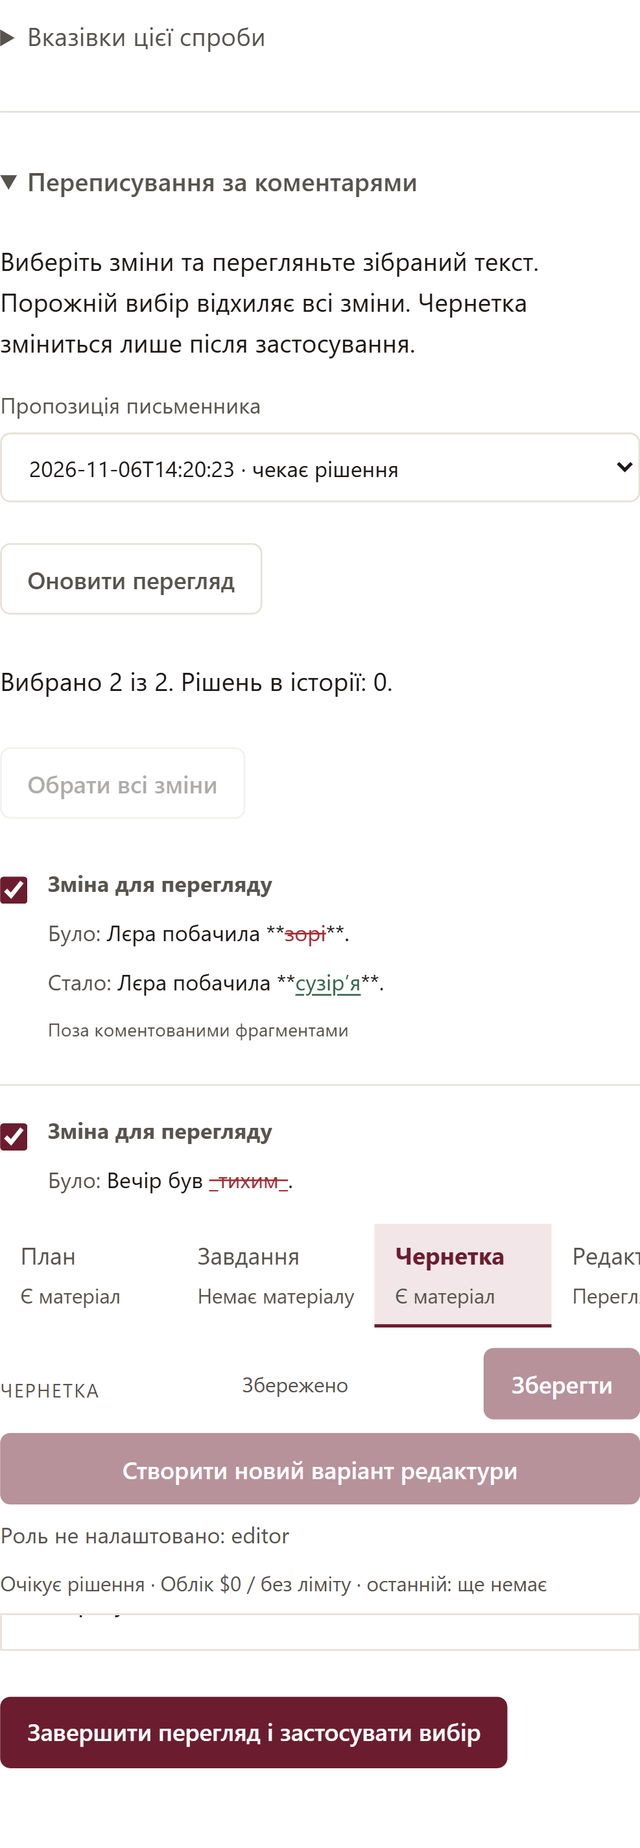
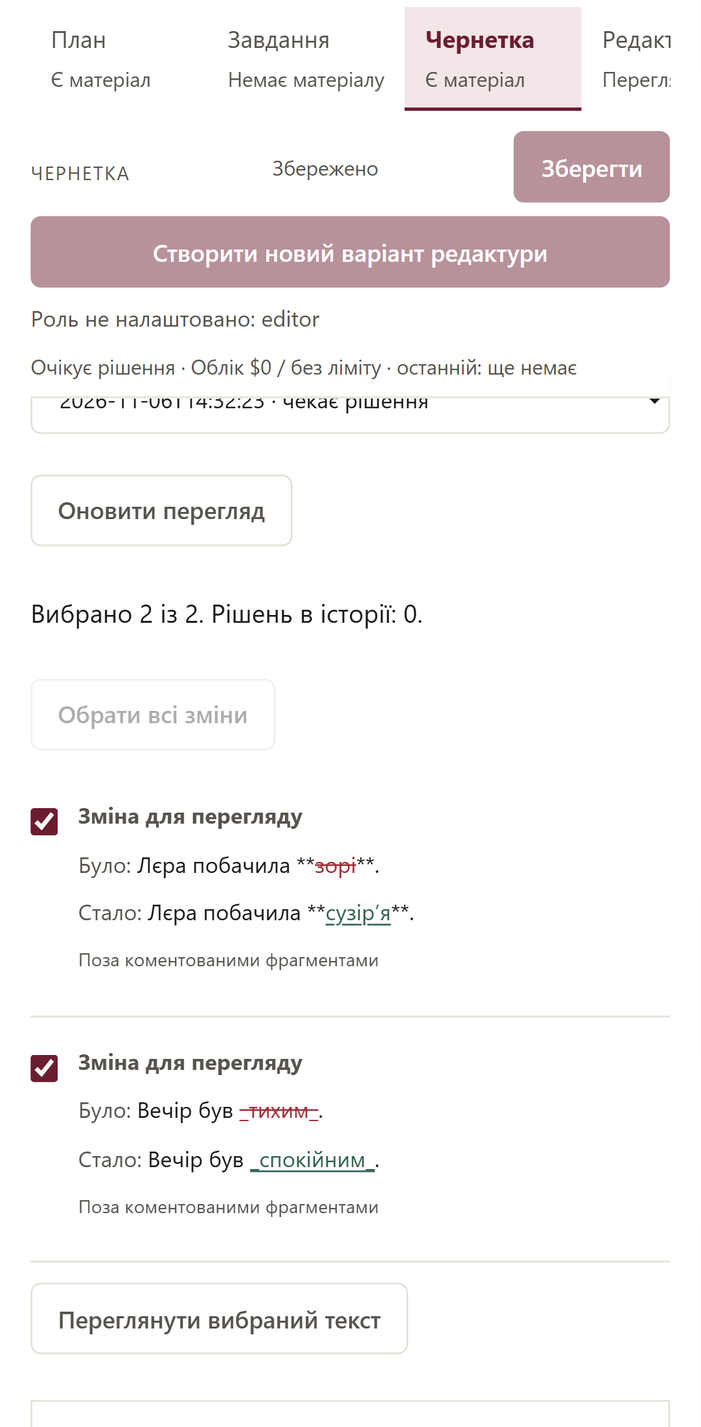
feat: collapse long scene and review result lists
Preserve scene/material/dirty text and disclosure across refresh/locale. Docs: SPEC/traceability, UA/EN guides, six neutral screenshots;104 browser and185 web tests passed.

diff --git a/src/storygen/web/templates/story.html b/src/storygen/web/templates/story.html
@@ -1,6 +1,6 @@
 {% extends "base.html" %}{% block title %}{{story.title}} — Obscura{% endblock %}{% block content %}<link rel="stylesheet" href="/static/rich-editor.css">
 <div id="workspace" data-story-id="{{story.id}}"><div class="storybar"><div><a href="/" class="muted"><span data-i18n="m_26b01756a3dd">{{ t('m_26b01756a3dd') }}</span></a><div class="story-title-row"><h1 id="story-title">{{story.title}}</h1><button id="rename-story" type="button" class="secondary story-title-edit" aria-label="{{ t('m_42fc172b39c9') }}" title="{{ t('m_42fc172b39c9') }}" data-i18n-attrs='{"aria-label": "m_42fc172b39c9", "title": "m_42fc172b39c9"}'><svg viewBox="0 0 24 24" width="20" height="20" fill="none" stroke="currentColor" stroke-width="1.75" stroke-linecap="round" stroke-linejoin="round" aria-hidden="true"><path d="m16 3 5 5-13 13H3v-5Z"/><path d="m14 5 5 5"/></svg></button><form id="story-title-form" hidden><label class="sr-only" for="story-title-input"><span data-i18n="m_249c337f3e51">{{ t('m_249c337f3e51') }}</span></label><input id="story-title-input" name="title" maxlength="300" required autocomplete="off" aria-describedby="story-title-error"><button id="story-title-submit" type="submit"><span data-i18n="m_e40fc0b582e3">{{ t('m_e40fc0b582e3') }}</span></button><small class="muted"><span data-i18n="m_308df7133e1e">{{ t('m_308df7133e1e') }}</span></small></form></div><p id="story-title-error" role="alert"></p></div><div class="actions"><a id="workspace-characters" class="button secondary" href="/stories/{{story.id}}/characters"><span data-i18n="characters.nav">{{ t('characters.nav') }}</span></a><a class="button secondary" href="/stories/{{story.id}}/settings"><span data-i18n="m_2aac46060bb4">{{ t('m_2aac46060bb4') }}</span></a><button id="add-scene" class="secondary"><span data-i18n="m_583cafe0b81c">{{ t('m_583cafe0b81c') }}</span></button></div></div>
-<details id="impact-panel" class="book-impact" hidden><summary><span data-i18n="impact.title">{{ t('impact.title') }}</span><span id="impact-count" class="muted"></span><svg class="impact-chevron" viewBox="0 0 24 24" width="20" height="20" fill="none" stroke="currentColor" stroke-width="1.75" aria-hidden="true"><path d="m6 9 6 6 6-6"/></svg></summary><p data-i18n="impact.help">{{ t('impact.help') }}</p><button id="impact-preview" class="secondary" type="button" data-i18n="impact.preview">{{ t('impact.preview') }}</button><a id="impact-settings" class="button secondary" hidden data-i18n="impact.settings">{{ t("impact.settings") }}</a><p id="impact-progress" role="status"></p><div id="impact-preview-panel" hidden><p id="impact-preview-info"></p><ul id="impact-targets"></ul><ul id="impact-warnings" class="muted"></ul><p id="impact-cost"></p><label id="impact-limit-label" hidden><span data-i18n="impact.limit">{{ t('impact.limit') }}</span><input id="impact-limit" type="number" min="0" step="0.000001" inputmode="decimal"></label><div class="actions"><button id="impact-start" type="button" data-i18n="impact.start">{{ t('impact.start') }}</button><button id="impact-cancel-preview" type="button" class="secondary" data-i18n="impact.cancel_preview">{{ t('impact.cancel_preview') }}</button></div></div><section id="review-session" aria-live="polite" hidden></section><section id="impact-reports" aria-live="polite"></section><p class="muted" data-i18n="impact.not_quality">{{ t('impact.not_quality') }}</p></details><div class="workbench"><aside class="scene-panel"><div class="panel-heading"><span data-i18n="m_6a99495702ec">{{ t('m_6a99495702ec') }}</span> <span id="scene-count"></span></div><select id="scene-select-mobile" aria-label="{{ t('m_f0f1417db6de') }}" data-i18n-attrs='{"aria-label": "m_f0f1417db6de"}'></select><nav id="scene-list"></nav><details class="importer" open><summary><span data-i18n="m_4aa3221c15d4">{{ t('m_4aa3221c15d4') }}</span></summary><div class="import-template-links"><span class="muted"><span data-i18n="m_85029e1c12d1">{{ t('m_85029e1c12d1') }}</span></span><a href="/static/templates/story-plan.md" download="obscura-plan.md"><span data-i18n="m_23766d24efd9">{{ t('m_23766d24efd9') }}</span></a><a href="/static/templates/characters.md" download="obscura-characters.md"><span data-i18n="m_a0828dcd0440">{{ t('m_a0828dcd0440') }}</span></a></div><form id="import-sources"><label><span data-i18n="m_3146141c9367">{{ t('m_3146141c9367') }}</span><input type="file" name="plan" accept=".md,.txt"></label><label><span data-i18n="m_fda6febf7bc7">{{ t('m_fda6febf7bc7') }}</span><input type="file" name="characters" accept=".md,.txt"></label><button><span data-i18n="m_68f804fb7941">{{ t('m_68f804fb7941') }}</span></button></form><p class="muted" data-i18n="imports.unnumbered">{{ t('imports.unnumbered') }}</p><section id="import-results" class="import-results" role="status" aria-live="polite" hidden></section></details></aside>
+<details id="impact-panel" class="book-impact" hidden><summary><span data-i18n="impact.title">{{ t('impact.title') }}</span><span id="impact-count" class="muted"></span><svg class="impact-chevron" viewBox="0 0 24 24" width="20" height="20" fill="none" stroke="currentColor" stroke-width="1.75" aria-hidden="true"><path d="m6 9 6 6 6-6"/></svg></summary><p data-i18n="impact.help">{{ t('impact.help') }}</p><button id="impact-preview" class="secondary" type="button" data-i18n="impact.preview">{{ t('impact.preview') }}</button><a id="impact-settings" class="button secondary" hidden data-i18n="impact.settings">{{ t("impact.settings") }}</a><p id="impact-progress" role="status"></p><div id="impact-preview-panel" hidden><p id="impact-preview-info"></p><ul id="impact-targets"></ul><ul id="impact-warnings" class="muted"></ul><p id="impact-cost"></p><label id="impact-limit-label" hidden><span data-i18n="impact.limit">{{ t('impact.limit') }}</span><input id="impact-limit" type="number" min="0" step="0.000001" inputmode="decimal"></label><div class="actions"><button id="impact-start" type="button" data-i18n="impact.start">{{ t('impact.start') }}</button><button id="impact-cancel-preview" type="button" class="secondary" data-i18n="impact.cancel_preview">{{ t('impact.cancel_preview') }}</button></div></div><section id="review-session" aria-live="polite" hidden></section><section id="impact-reports" aria-live="polite"></section><p class="muted" data-i18n="impact.not_quality">{{ t('impact.not_quality') }}</p></details><div class="workbench"><aside class="scene-panel"><details id="scene-list-section" open><summary><span data-i18n="m_6a99495702ec">{{ t('m_6a99495702ec') }}</span> <span id="scene-count"></span></summary><select id="scene-select-mobile" aria-label="{{ t('m_f0f1417db6de') }}" data-i18n-attrs='{"aria-label": "m_f0f1417db6de"}'></select><nav id="scene-list"></nav></details><details class="importer" open><summary><span data-i18n="m_4aa3221c15d4">{{ t('m_4aa3221c15d4') }}</span></summary><div class="import-template-links"><span class="muted"><span data-i18n="m_85029e1c12d1">{{ t('m_85029e1c12d1') }}</span></span><a href="/static/templates/story-plan.md" download="obscura-plan.md"><span data-i18n="m_23766d24efd9">{{ t('m_23766d24efd9') }}</span></a><a href="/static/templates/characters.md" download="obscura-characters.md"><span data-i18n="m_a0828dcd0440">{{ t('m_a0828dcd0440') }}</span></a></div><form id="import-sources"><label><span data-i18n="m_3146141c9367">{{ t('m_3146141c9367') }}</span><input type="file" name="plan" accept=".md,.txt"></label><label><span data-i18n="m_fda6febf7bc7">{{ t('m_fda6febf7bc7') }}</span><input type="file" name="characters" accept=".md,.txt"></label><button><span data-i18n="m_68f804fb7941">{{ t('m_68f804fb7941') }}</span></button></form><p class="muted" data-i18n="imports.unnumbered">{{ t('imports.unnumbered') }}</p><section id="import-results" class="import-results" role="status" aria-live="polite" hidden></section></details></aside>
 <main class="editor-panel"><header class="scene-heading"><h2 id="scene-title"><span data-i18n="m_e9afe8d51b91">{{ t('m_e9afe8d51b91') }}</span></h2><p id="workspace-scene-meta"><span data-i18n="m_6be5cd9f46ec">{{ t('m_6be5cd9f46ec') }}</span></p></header>
 <div class="workspace-sticky"><div id="mode-tabs" class="tabs" role="tablist" aria-label="{{ t('m_566dc8de3f68') }}" data-i18n-attrs='{"aria-label": "m_566dc8de3f68"}'></div>
 <div class="editor-toolbar"><span class="material-label" id="current-kind"><span data-i18n="m_9ecb77f7d846">{{ t('m_9ecb77f7d846') }}</span></span><span id="save-state" class="muted" role="status"></span><button id="save-text" disabled><span data-i18n="m_bf610d493cb4">{{ t('m_bf610d493cb4') }}</span></button><button id="workspace-primary" disabled aria-describedby="workspace-hint"><span data-i18n="m_f0f1417db6de">{{ t('m_f0f1417db6de') }}</span></button></div><p id="workspace-hint" role="status"></p><p id="workspace-compact-status" class="workspace-compact-status" role="status"></p></div>

diff --git a/src/storygen/web/static/impact.js b/src/storygen/web/static/impact.js
@@ -24,11 +24,12 @@ function controls(){contractSelect.disabled=busy||state.saving||active();preview
 function renderReports(){
   if(!cached)return;
   uiText(document.querySelector('#impact-count'),'textContent',()=>t('impact.pending_count',{p0:cached.pending.length}));
+  const historyOpen=reportBox.querySelector('#impact-report-list')?.open??true;
   reportBox.replaceChildren();
   for(const target of cached.pending.filter(target=>target.blockers.length))reportBox.append(node('p',target.scene_title+' · '+t('impact.'+target.material)+' — '+target.blockers.map(diagnostic).join('; '),'muted'));
   const latest=new Map();for(const report of cached.reports)latest.set(report.scene_id+':'+report.material,report);
   if(!latest.size)return;
-  reportBox.append(node('h3',t('impact.history')));
+  const history=node('details');history.id='impact-report-list';history.open=historyOpen;history.append(node('summary',t('impact.history')));reportBox.append(history);
   for(const report of [...latest.values()].reverse()){
     const article=node('article',null,'impact-report');article.dataset.current=String(report.current);article.dataset.verdict=report.verdict;
     article.append(node('h4',report.scene_title+' · '+t('impact.'+report.material)),node('p',report.current?t('impact.'+report.verdict):t('impact.outdated'),'impact-verdict'),node('p',report.explanation));
@@ -46,7 +47,7 @@ function renderReports(){
     const actions=node('div',null,'actions'),open=node('button',t('impact.open'),'secondary');open.type='button';
     open.onclick=async()=>{try{const scene=state.view.scenes.find(s=>s.id===report.scene_id);if(!scene)return;await selectScene(scene);if(state.scene?.id===scene.id&&!state.dirty)await invokeWorkspaceCommand('show',report.material);}catch(error){notice(error.message,'error')}};actions.append(open);
     if(report.current){const reject=node('button',t('impact.reject'),'secondary');reject.type='button';reject.dataset.rejectImpact=report.id;reject.onclick=async()=>{try{await api(`/api/stories/${state.storyId}/impact/${report.id}/reject`,json('POST',{}));await refresh();await load();}catch(error){notice(error.message,'error')}};actions.append(reject);}
-    article.append(actions);reportBox.append(article);
+    article.append(actions);history.append(article);
   }
 }
 async function load(){

diff --git a/SPEC.MD b/SPEC.MD
@@ -2390,6 +2390,8 @@ API GET /api/scenes/{scene_id}/statistics?stage=brief|draft|edit|memory пове
 
 ### Requirement: R20-WORKSPACE — Видимі етапи та безпечна основна дія
 
+Список сцен SHALL бути одним native details із видимою кількістю, початково open. Імпорт матеріалів розташовано поза цим disclosure. Згортання не змінює scene/material, dirty текст чи API стан; refresh і UA/EN зберігають open, reload починається open.
+
 Сторінка твору SHALL показувати шість етапів: План, Завдання, Чернетка, Редактура, Проза, Пам’ять. Редактура — перегляд чинних пропозицій, не новий VersionKind. Відкриття вкладки не викликає моделей і не є авторським прийманням. Вкладки та Save/основна дія знаходяться в закріпленій області над матеріалом. Історія, повторні/службові й автоматичні операції згруповані в розгортаних блоках; керування запуском показане за його станом. План не приховується після підготовки. Картка публікації є явним інтерактивним переходом.
 
 Основна дія SHALL зберігати dirty матеріал до початку наступного етапу, перевіряти незмінність scene/mode/buffer epoch та readiness перед enqueue. Save і enqueue — дві окремі операції; збій другої не відкидає успішне Save. Помилка Save, нове введення, перемикання сцени, історичний буфер чи active run SHALL блокувати запуск. Повтор — явний «Створити новий варіант…» зі збереженням історії, без послаблення CAS/актуальності. Для memory збереження forwarding та перехід не запускають наступну сцену; після останньої перехід веде до картки. Без створеної актуальної пам’яті primary завершення недоступний; ручна навігація сцен збережена.
@@ -2407,6 +2409,12 @@ API GET /api/scenes/{scene_id}/statistics?stage=brief|draft|edit|memory пове
 - AND відсутня/порожня пропозиція не дозволяє прихованого прийняття, а відсутня пам’ять не позначає сцену завершеною.
 
 Техніка: static/workspace-state.js задає маршрут/primary transition, workspace-route.js координує UI; workspace-commands.js — Promise-команди save/show/run/accept-review. Чинні editor.js/versions.js/runs.js та copyedit/memory компоненти реалізують ці команди. Стан версій/актуальності залишається серверним. text-editor.js інкапсулює serialized read/write/focus/input/readOnly; новий маршрут не залежить від textarea.value. Markdown-рядки зберігаються без нормалізації. R-22 rich editing і конвертація Markdown у книги реалізовані контрактами R22-EDITOR/R22-MARKUP. Історичні ручні сценарії та автоматичні режими збережено.
+
+
+#### Scenario: R20-WORKSPACE-SCENES — Згортання довгого списку сцен
+GIVEN65 сцен і поточний матеріал із незбереженим вводом
+WHEN автор згортає/розгортає native details «Сцени», перемикає UA/EN або отримує refresh
+THEN список і mobile picker SHALL ховатися/показуватися разом, імпорт поза списком лишається доступним; кількість видима в summary, current scene/material/dirty текст і стан disclosure збережені без API mutations.
 
 ### Requirement: R20-EDITOR-SOURCE — Зафіксоване джерело окремої редактури
 
@@ -2879,6 +2887,8 @@ RunRequest mode=impact SHALL містити погоджений impact_plan_fin
 
 ### Requirement: IMPACT-UI — Редактура книги, статуси й контроль автора
 
+Історія report articles SHALL бути одним початково відкритим native details «Останні результати»; open зберігається при locale/refresh, лише history згортається без втрати доказів або поточних авторських рішень.
+
 Панель «Редагування книги» SHALL бути окремим disclosure під назвою твору, без нового кроку pipeline сцени. Вона активується лише за capability review_protocols=[1,2,3] з GET /api/stories/{id}/impact, щоб hot static update не показував нові кнопки старому серверу. GET також повертає pending матеріали, історичні публічні звіти/дельту/докази й scene_status. Поточні preview/start використовують /review protocol3 (REVIEW-WORKSPACE), зі scope поточної сцени та невідомим майбутнім обсягом/вартістю. Legacy POST .../impact/preview та .../impact з request_id/fingerprint/optional budget_limit_usd лишаються сумісними й не переписуються. POST .../impact/{record_id}/reject журналює відхилення лише історичного звіту цього твору.
 
 Перед запуском dirty buffer пропонується зберегти; відмова/помилка Save не надсилають дані. Preview й Run запобігають дублюванню; review не підміняє живі незбережені буфери. UA/EN перемикання не змінює source text, введений бюджет або стан запуску. Report показує людські назви/дослівні уривки й конкретні пояснення, не службові row IDs. Авторські назви джерельних сцен зберігаються дослівно навіть коли збігаються з локалізованими підписами застосунку. Окрема дельта доступна через disclosure. «Відхилити висновок» прибирає його дію без author acceptance; «Відкрити матеріал» використовує чинний захист dirty scene navigation. Налаштування ведуть до planner.
@@ -2897,6 +2907,12 @@ Dirty/«Потрібні зміни» для прози означає лише 
 GIVEN сервер ще обчислює безкоштовний попередній перегляд
 WHEN автор натиснув «Перевірити вплив»
 THEN стан підготовки й секунди очікування SHALL бути видимі відразу; застарілі targets/cost/start не показуються, запуск недоступний до готової відповіді. Автор може скасувати очікування через AbortController; після120с браузер припиняє очікування з окремою діагностикою. Cancel/timeout/HTTP error SHALL повертати керування й дозволяти повторний preview без модельного run/dispatch. Скасування браузерного fetch не обіцяє зупинку вже розпочатого серверного read-only обчислення. UA/EN локалізація й авторський буфер збережені. Усунуто дефект: loading-текст раніше оновлювався всередині прихованої панелі, тому очікування виглядало як непрацююча кнопка.
+
+
+#### Scenario: IMPACT-UI-HISTORY — Згортання результатів сцен
+GIVEN історія результатів перевірки кількох матеріалів сцен
+WHEN автор згортає список «Останні результати» й перемикає UA/EN або оновлює story
+THEN усі articles SHALL лишатися під одним native summary зі збереженим open; blockers і поточний author checkpoint поза історією не приховуються; без history порожній disclosure не з’являється.
 
 ### Requirement: IMPACT-MEMORY — Окрема перевірка змісту без зміни доказів
 

diff --git a/docs/superpowers/plans/2026-10-20-remediation-backlog.md b/docs/superpowers/plans/2026-10-20-remediation-backlog.md
@@ -522,7 +522,7 @@ R-28k фінальний набір1293PASS/1SKIP,24browserPASS. Дрібні н
 Статус: записано до плану, реалізацію цього пакета ще не розпочато. Перед зміною контрактів оформити специфікацію; цей перелік не описує чинну поведінку.
 
 1. **R-23 follow-up — «Обрати всі зміни».** У переписуванні за коментарями додати пакетний вибір усіх запропонованих змін перед авторським підтвердженням. Сам вибір не застосовує правки й не запускає генерацію; окремий вибір змін лишається доступним. Перевірити UA/EN та desktop/mobile.
-2. **R-20/R-28 follow-up — згорнути/розгорнути всі сцени.** Додати дії «Згорнути всі сцени» та «Розгорнути всі сцени», зберігши індивідуальне керування сценами й поточний авторський ввід. Під час специфікації визначити відповідну панель та поведінку змішаного стану.
+2. **R-20/R-28 follow-up — згорнути/розгорнути всі сцени.** Додати дії «Згорнути всі сцени» та «Розгорнути всі сцени», зберігши індивідуальне керування сценами й поточний авторський ввід. Уточнено власником06.11: обидва екрани; довгий список60+ сцен має згортатися як сусідні details, щоб імпорт не відсувався вниз. Реалізується як цілий згортаний список, не приховування лише status рядків.
 3. **R-11/R-08 follow-up — тариф при виборі моделі.** Показувати тариф поруч із вибором: вхідні й вихідні токени, валюту та одиницю тарифікації; за наявності окрему плату за запит. Невідомий/застарілий тариф позначати явно, не видавати його за нуль. Використати чинний облік тарифів; вибір не запускає платний виклик.
 4. **Імпорт follow-up — кількості в журналі матеріалів.** Для кожного імпортованого файла показувати, скільки сцен/карток персонажів реально створено. Розрізняти створені й пропущені дублікати; не плутати кількість секцій файла з кількістю доданих матеріалів. Старим записам без доказових лічильників показувати невідомість, не вигадувати нуль. Перед реалізацією узгодити збереження лічильників і сумісність старого журналу; поточний разовий результат біля форми вже має кількості, журнал — ще ні.
 

diff --git a/docs/STATUS.md b/docs/STATUS.md
@@ -2,20 +2,20 @@
 
 **ПЕРЕВІРКА ПРОЙШЛА** — свідчення конкретного запуску, не поточного довільного стану.
 
-- Початок (UTC): 2026-11-06T13:18:13.467042+00:00
-- Завершення (UTC): 2026-11-06T13:20:08.051812+00:00
-- Базовий commit: `7cf402950f8c476a15f484ec43761f29f1cb635d`
+- Початок (UTC): 2026-11-06T14:33:25.716373+00:00
+- Завершення (UTC): 2026-11-06T14:33:54.907274+00:00
+- Базовий commit: `86d81b64663691abac4487e401b7ea5303328c22`
 - Незакомічені зміни під час перевірки: `true`
[2 lines of base64/hex data omitted]
 - Зміна знімка під час прогону: `false`
 - Exit code: `0`
-- Фактичні testcase результати JUnit: passed: 515 · failed: 0 · errors: 0 · skipped: 0
-- Тривалість: 114.58 с
+- Фактичні testcase результати JUnit: passed: 185 · failed: 0 · errors: 0 · skipped: 0
+- Тривалість: 29.19 с
 
 Точний argv (JSON, не shell-команда):
 
 ```json
-["C:\\Projects\\text-generator\\.venv\\Scripts\\python.exe", "-m", "pytest", "tests/memory", "tests/generation", "tests/integration", "tests/web/test_localization.py", "-q", "--junitxml=C:\\Projects\\text-generator\\artifacts\\verification-9k5sjzus\\junit.xml", "--basetemp=C:\\Projects\\text-generator\\artifacts\\verification-9k5sjzus\\test-tmp"]
+["C:\\Projects\\text-generator\\.venv\\Scripts\\python.exe", "-m", "pytest", "tests/web", "-q", "--junitxml=C:\\Projects\\text-generator\\artifacts\\verification-yi06cfb8\\junit.xml", "--basetemp=C:\\Projects\\text-generator\\artifacts\\verification-yi06cfb8\\test-tmp"]
 ```
 
 Результат стосується лише наведеної команди й вихідного знімка. Якщо в argv зазначено окремі файли або фільтри, це часткова перевірка. Збір (collection) не є виконанням; skipped не зараховано до passed. Відсутній або непридатний XML позначається непідтвердженим. Після зміни вихідних файлів звіт історичний. Власний STATUS і artifacts виключено зі знімка; початкова ревізія може мати dirty=true, оскільки звіт створюється до коміту.

diff --git a/docs/specs/changes/collapsible-scene-lists-2026-11-06.md b/docs/specs/changes/collapsible-scene-lists-2026-11-06.md
@@ -1,0 +1,12 @@
+# Згортання довгих списків сцен
+
+Дата06.11.2026. Погоджений запит власника: обидва екрани, редактор і результати перевірки. Уточнення:60+ сцен відсувають імпорт персонажів униз; список має згортатися як сусідні details.
+
+Редактор: один native details «Сцени» з поточною кількістю, open за замовчуванням. Усередині наявні scene-list і mobile select; importer залишається наступним sibling поза details. Натискання/клавіатурне згортання не перемикає сцену/матеріал, не зберігає/стирає dirty текст і не надсилає запити. Refresh і UA/EN зберігають стан, reload відкриває початково.
+
+Результати: наявний заголовок «Останні результати» стає summary native details навколо всіх report articles. Початково відкрито, стан зберігається при locale/refresh; за відсутності reports порожнього disclosure немає. Поточний author-review/checkpoint і blockers не ховаються цим списком історії, вкладені цитати/докази зберігають власне керування.
+
+Малий UI пакет inline поверх select-all: RED browser65 scenes/import accessibility/dirty+selection+UA/EN та reports toggle → мінімальна template/DOM зміна, штатні styles → SPEC/traceability/UA/EN/screenshots → спільний web/browser gate та один cross-review PR. Нового API/storage/localStorage немає.
+
+
+Фінальний спільний UI gate:104 Playwright desktop/mobile passed,2.6m (artifacts/near-term-controls-browser-final.log);185 web/API/Node passed через verify.py, source_changed_during_run=false (artifacts/verification-yi06cfb8/result.json). check_docs пройшов,6 нейтральних screenshots оглянуто. Попередній full browser102 passed/2 failures був помилкою тестового EN locator після UA-switch при screenshot; виправлено stable data attr із окремою перевіркою тексту.

diff --git a/docs/verification/manual.md b/docs/verification/manual.md
@@ -182,3 +182,9 @@ R-22 прокрутка: Playwright `long draft scrolls internally while formatt
 ## Пакетний вибір переписування
 
 Запустити `node frontend/node_modules/@playwright/test/cli.js test --config frontend/playwright.config.mjs rewrite-review --reporter=line`. Новий сценарій select all rewrite changes перевіряє desktop/mobile: початково0, click→усі групи без mutations, UA/EN, preview обов’язковий навіть після повернення до all, apply двох змін/очищення notes. Нейтральні screenshots docs/images/rewrite-select-all-desktop.png і mobile.png оглянути на читабельність/overflow. Наявність процедури не означає виконання.
+
+
+<a id="collapsible-scenes"></a>
+## Згортання списків сцен
+
+Запустити Playwright collapsible-scenes.spec.mjs на synthetic server:65 scenes, dirty draft, selected scene/material, click/Enter, UA/EN/refresh зберігають open; імпорт поза collapsed list. Synthetic latest reports collapse без втрати articles; поточні blockers/checkpoint не ховаються. Оглянути screenshots collapsed-scenes/reports desktop/mobile. Наявність процедури не є фактичним PASS.

diff --git a/docs/specs/changes/rewrite-select-all-2026-11-06.md b/docs/specs/changes/rewrite-select-all-2026-11-06.md
@@ -10,3 +10,6 @@
 
 
 Реалізовано: initial browser RED2 failures (відсутня кнопка) → GREEN2 passed після виправлення тестового підпису preview. Без API/storage змін. Спільний gate/cross-review після наступного малого пакета згортання, review base32a04ad.
+
+
+Фінальний спільний UI gate:104 Playwright desktop/mobile passed,2.6m (artifacts/near-term-controls-browser-final.log);185 web/API/Node passed через verify.py, source_changed_during_run=false (artifacts/verification-yi06cfb8/result.json). check_docs пройшов,6 нейтральних screenshots оглянуто. Попередній full browser102 passed/2 failures був помилкою тестового EN locator після UA-switch при screenshot; виправлено stable data attr із окремою перевіркою тексту.

diff --git a/docs/en/editor-workflow.md b/docs/en/editor-workflow.md
@@ -2,3 +2,15 @@
 
 
 In a comment rewrite review, Select all changes checks every proposed group. Then Preview selected text and explicitly apply the selection. Selecting changes does not call a model or modify the draft.
+
+
+For a long story, click Scenes and its count to collapse the whole list and keep Add materials nearby. Click again to expand it. Your current scene and unsaved text remain intact. Latest results in the book review can be collapsed the same way; the current author decision remains visible.
+
+
+![Select all changes](../images/rewrite-select-all-desktop.png)
+
+
+![Collapsed scenes](../images/collapsed-scenes-desktop.png)
+
+
+![Collapsed results](../images/collapsed-reports-desktop.png)
